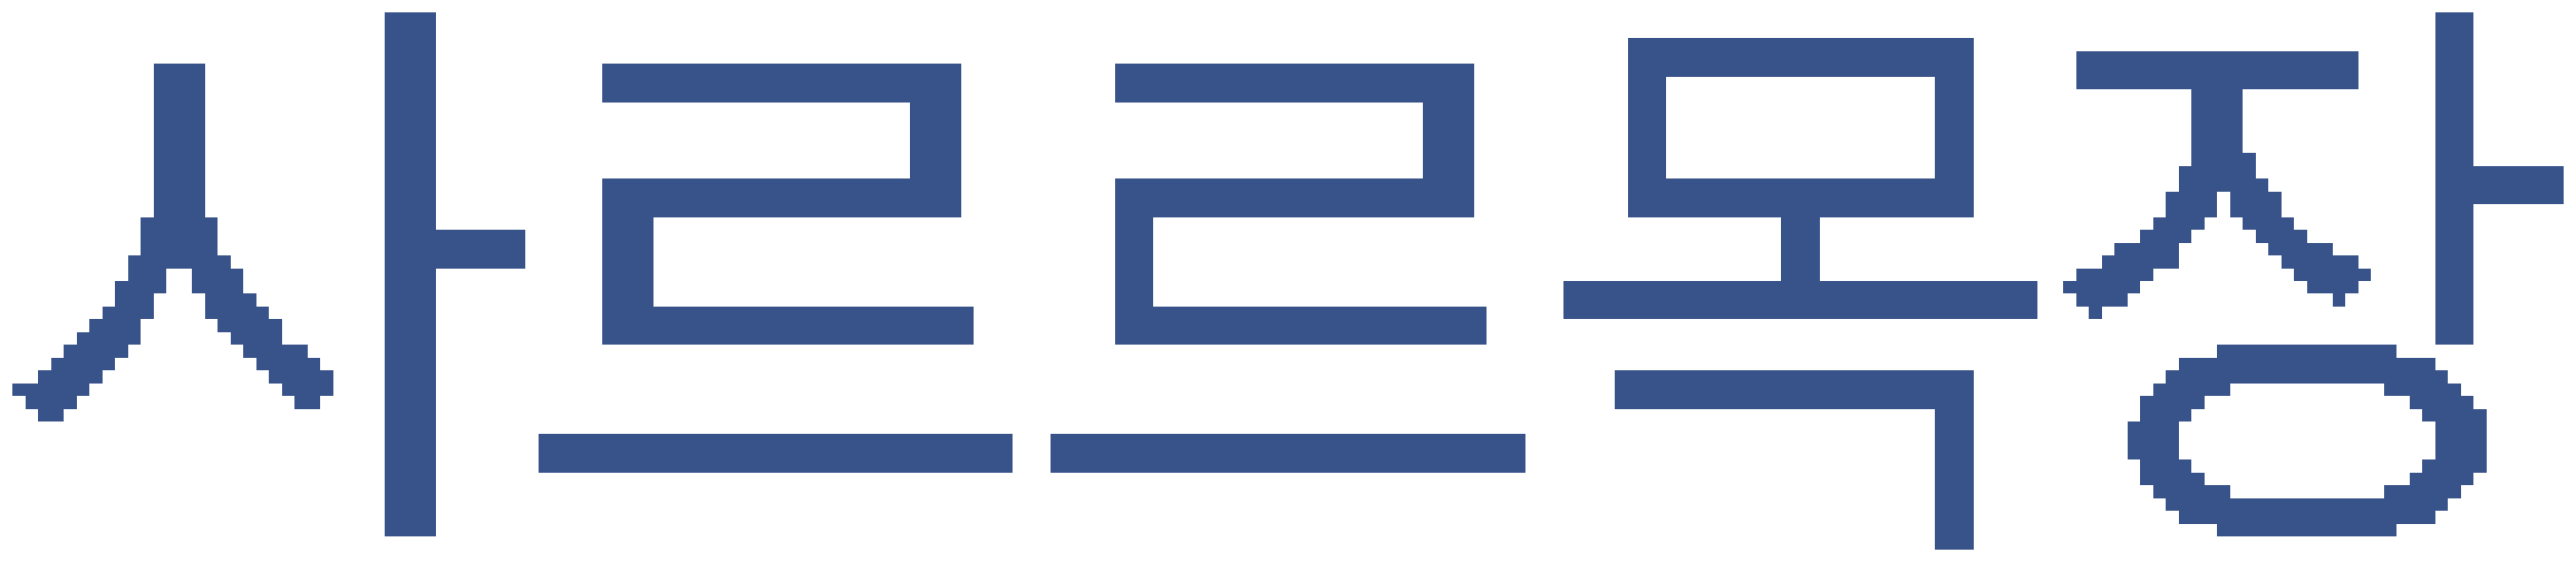
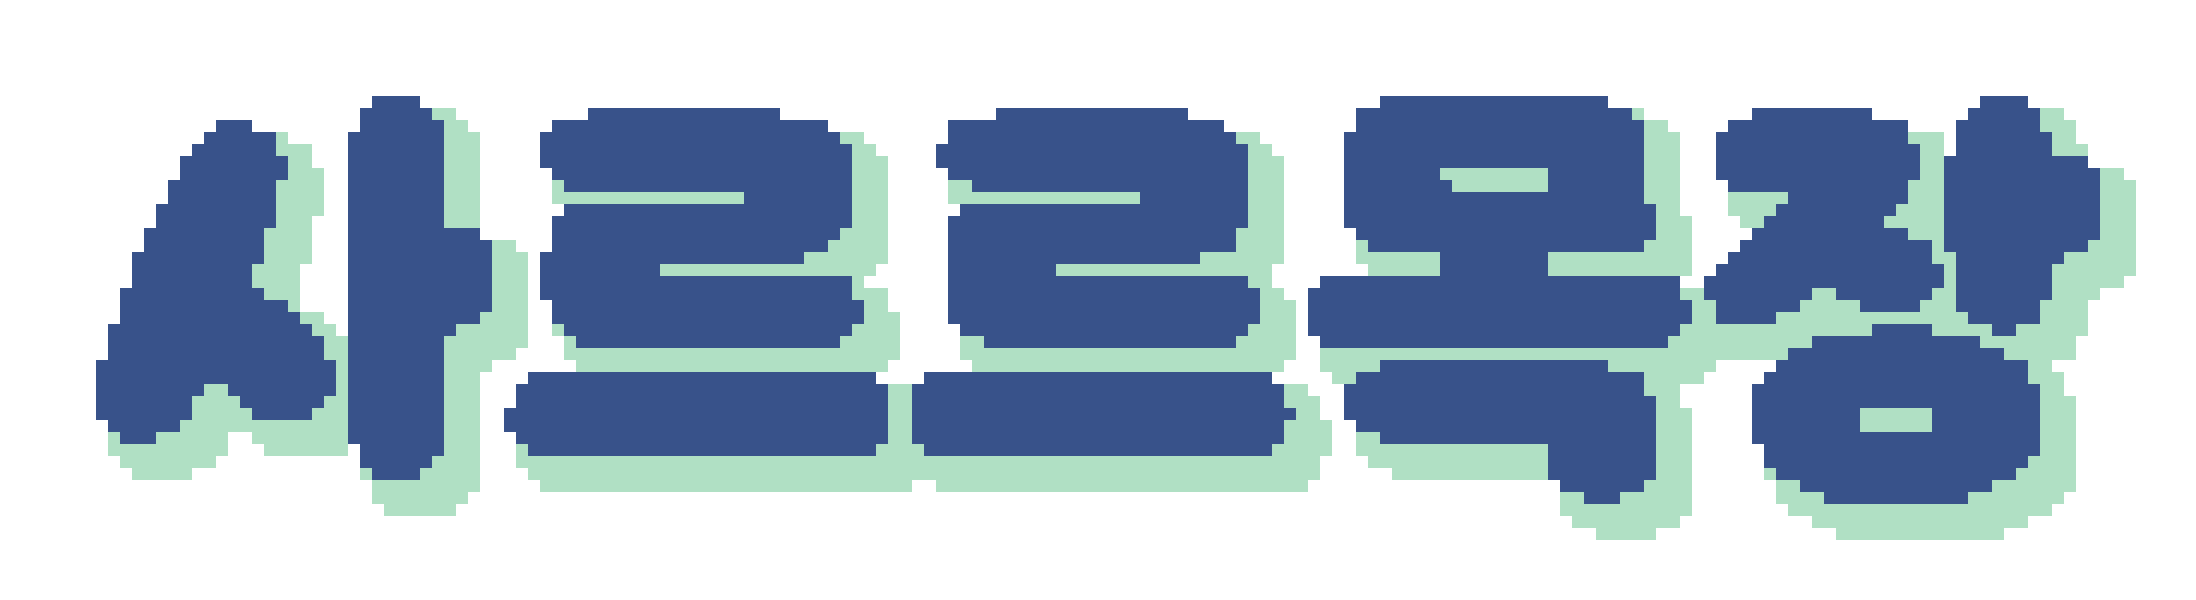
하단 워드마크를 진짜 오동통 픽셀본(E안 확정)으로 교체
- design 전달 확정본: saruru-wordmark-pixel.png(2196×600, 진짜 SDOdongtongBasic 오동통 픽셀화, 네이비 #38528a + 민트 그림자)
- index.html 하단 로고 src를 픽셀본으로 교체(26px 다운스케일 → 기본 렌더가 깔끔)
- pixel-native(183×50) 원본 그리드 + 비픽셀 오동통본(7680×2171, 인쇄/일반용) 동봉
- 직전 폴백 회수건 최종 종결(이번엔 육안+SDOdongtongBasic 검증)

Claude-Session: https://claude.ai/code/session_01V4W941tY5LxArge1FD9aZC

diff --git a/index.html b/index.html
@@ -117,9 +117,9 @@
       <button id="btn-bug" class="util-btn" type="button">🐞 버그 신고</button>
     </div>
 
-    <!-- 워드마크 로고 (design 제공 · 오동통 아웃라인 에셋 · 네이비 #38528a) -->
+    <!-- 워드마크 로고 (design 제공 · 진짜 오동통 픽셀화 E안 확정 · 네이비 #38528a + 민트 그림자) -->
     <div class="wordmark" aria-label="사르르목장">
-      <img src="./assets/saruru-wordmark.png?v=20260718i" alt="사르르목장" class="wordmark-img" />
+      <img src="./assets/saruru-wordmark-pixel.png?v=20260719p" alt="사르르목장" class="wordmark-img" />
     </div>
     <footer class="footer">
       <span>프레시 밀크 · 아이스크림</span>